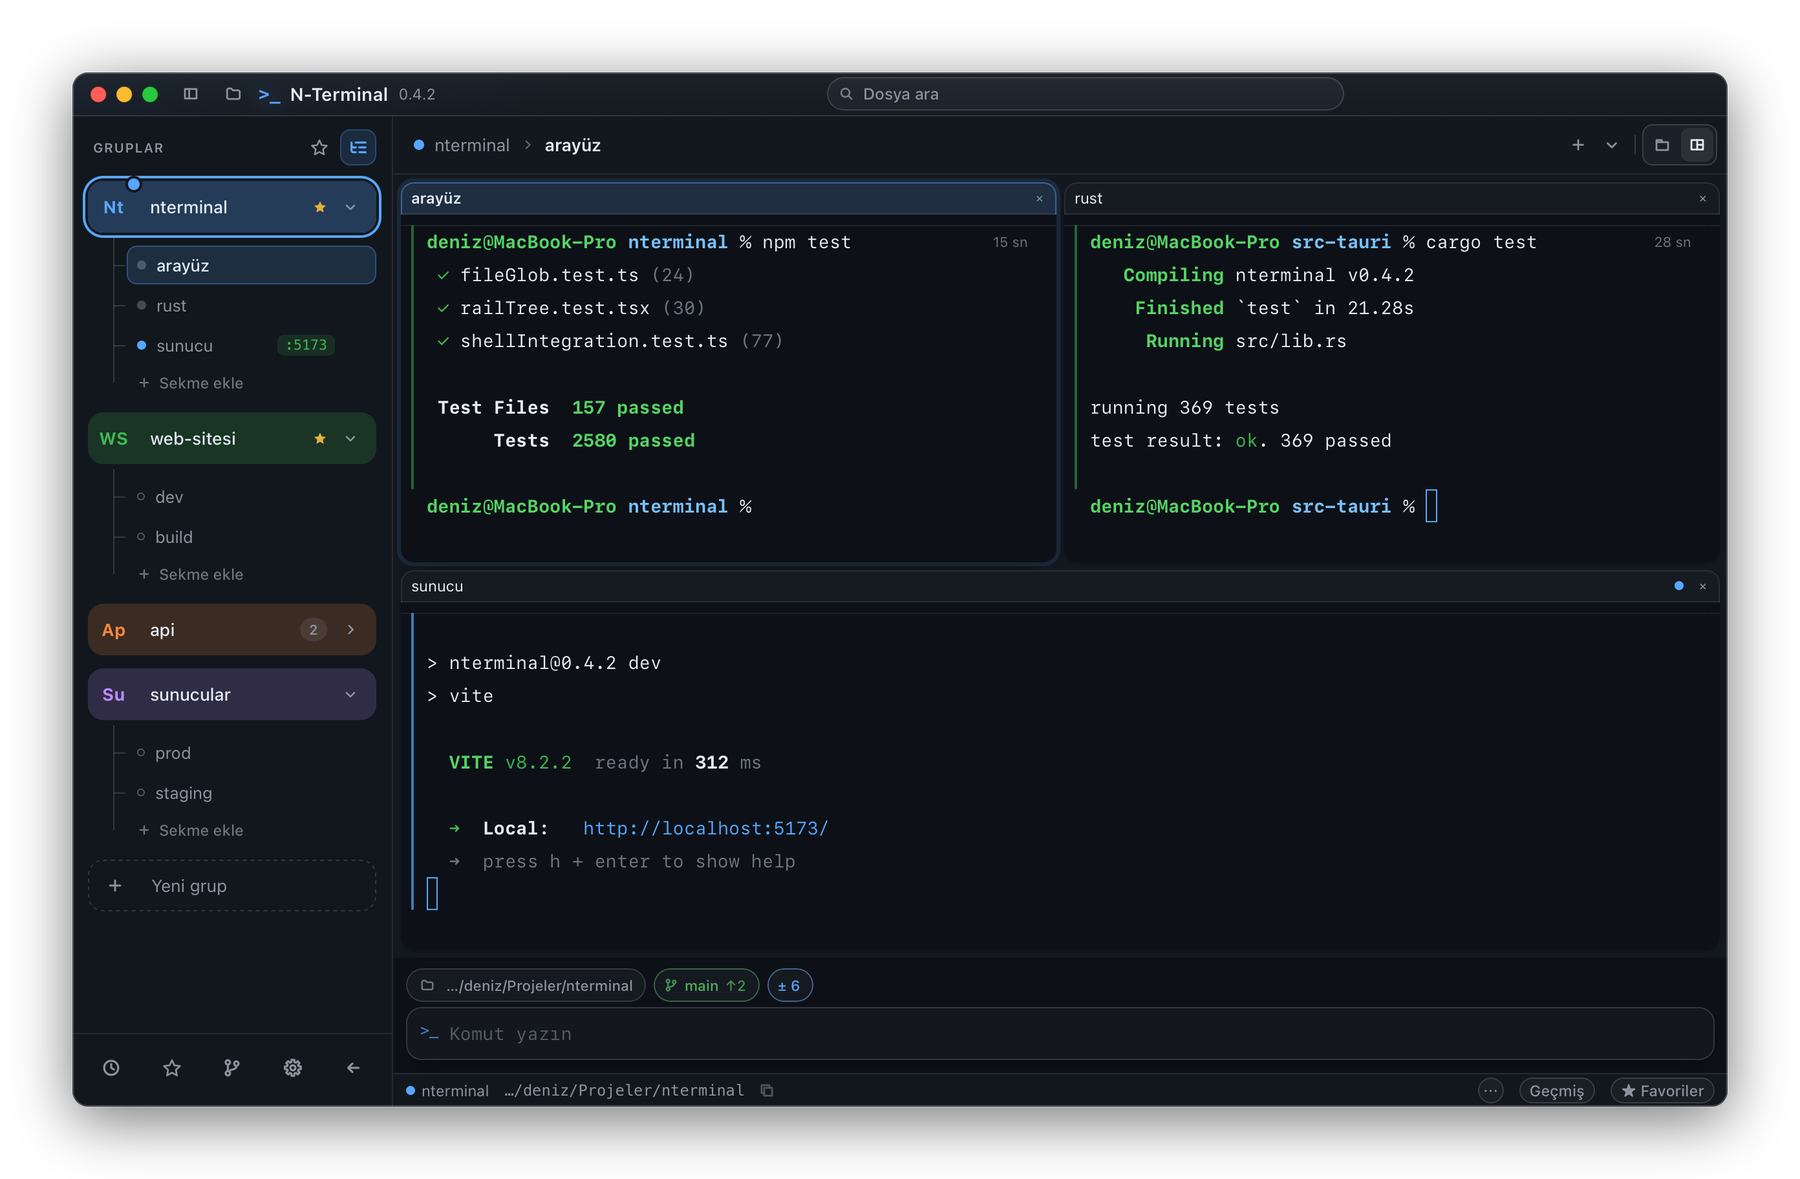
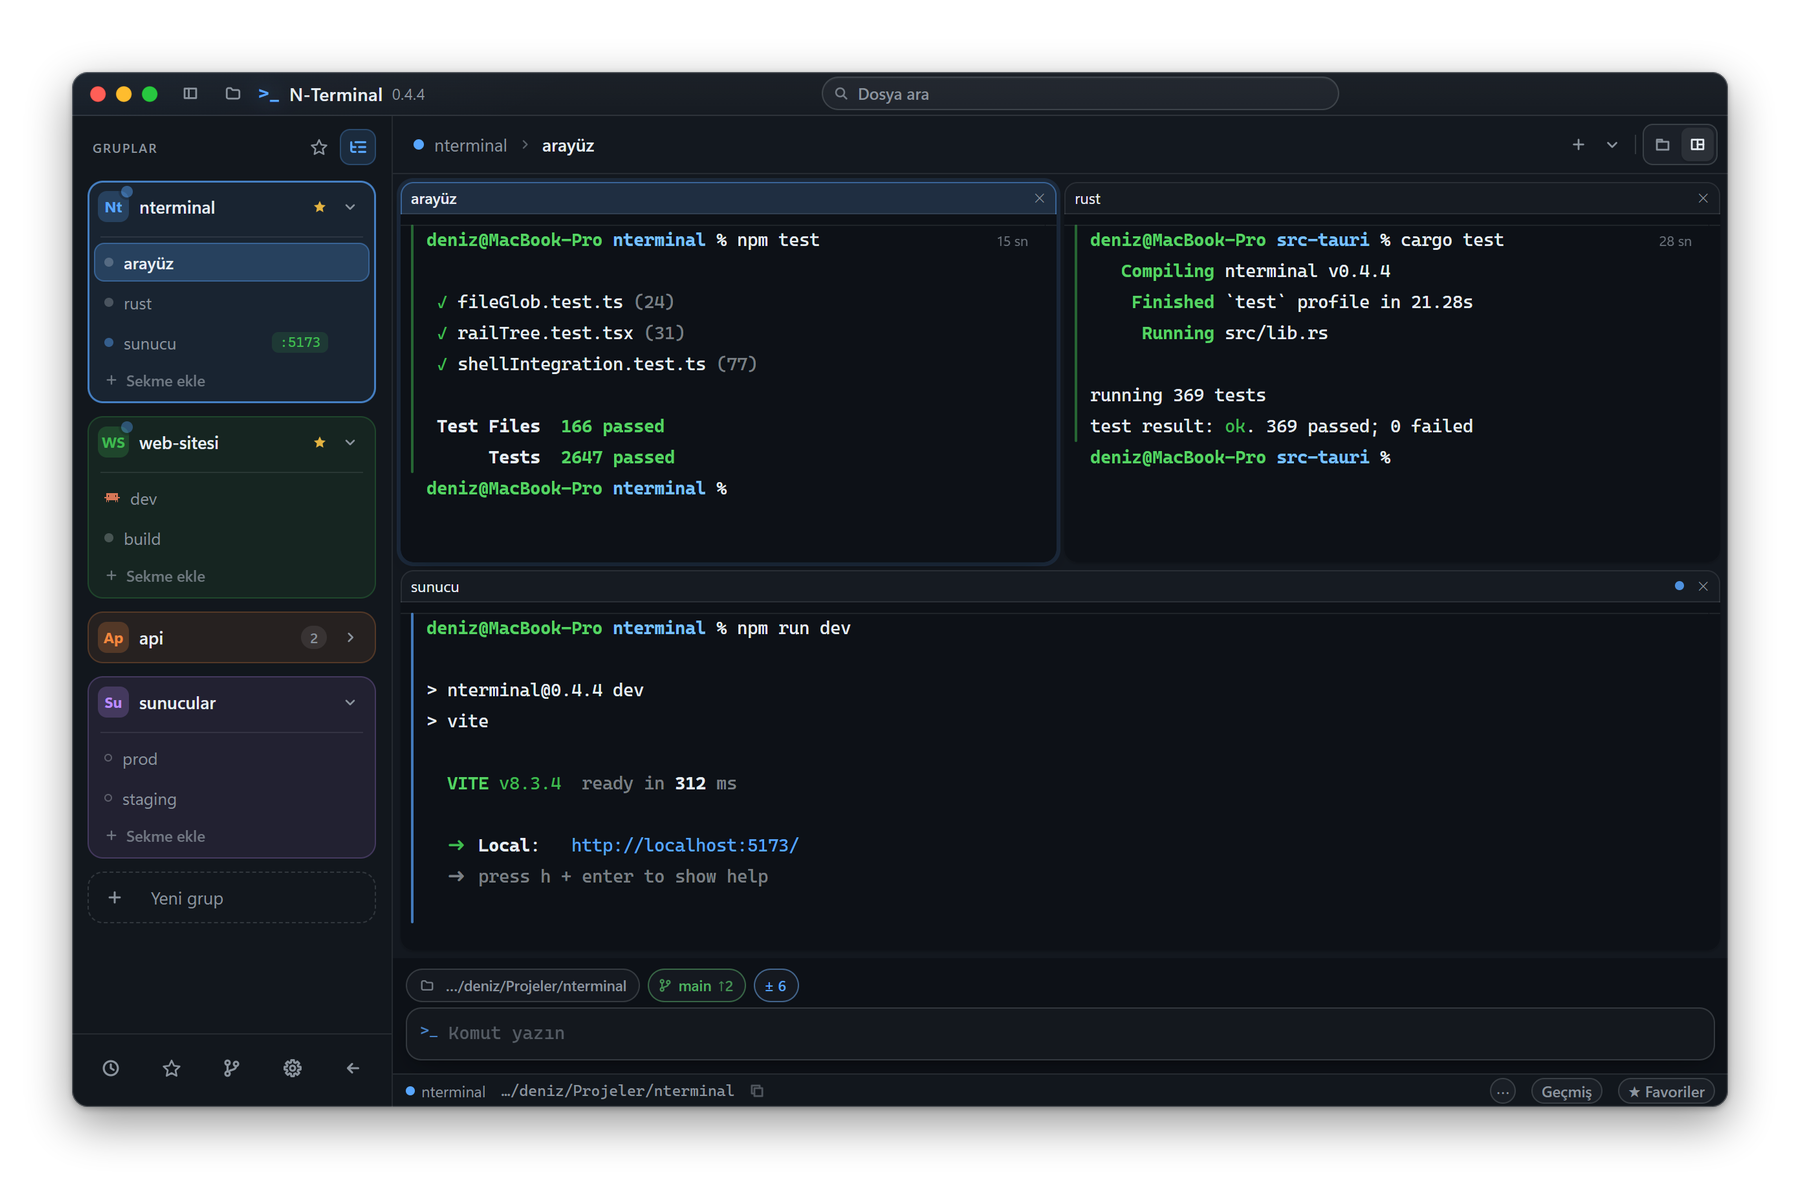
README: Kokpit'in kart ağacı, görseller 0.4.4 arayüzünden
README 0.4.2'de yazılmıştı; 0.4.3'te Kokpit'in ağaç görünümünde her grup
kendi renginde bir karta dönüştü, sekmeler kartın içine girdi. Ana görsel,
bölme, ayarlar ve dosya arama görselleri eski ağacı gösteriyordu.

- Görseller (kokpit, bolme, ayarlar, dosya-arama, premium-acik) yeniden
  çizildi: gerçek arayüz kodu, sahte arka uç, genel adlar; çerçeve eski
  ölçülerde (1800x1179). premium-acik yalnızca sürüm numarası için.
  paneller.png değişmedi.
- "Her proje bir grup": ağaç görünümünde grup kartı ve meşgul noktası.
- Kokpit'in varsayılan tasarım olduğu; fark penceresinin sözdizimi renkleri,
  görüntüleyicinin VS Code renkleri ve ağaçta işaretli değişen dosyalar
  (docs/ozellikler.md ile aynı ifadeler).

diff --git a/README.md b/README.md
@@ -18,7 +18,7 @@ macOS ve Windows için · Türkçe ve İngilizce arayüz · Ücretsiz ve açık 
 [Kısayollar](#klavye-kısayolları) &nbsp;·&nbsp;
 [Belgeler](#belgeler)
 
-<img src="docs/gorseller/kokpit.png" width="900" alt="N-Terminal: solda gruplar ve sekmeleri, ortada komut blokları ve süreleriyle terminal, altta komut kutusu">
+<img src="docs/gorseller/kokpit.png" width="900" alt="N-Terminal, Kokpit tasarımı: solda her grup kendi renginde bir kart ve sekmeleri kartın içinde, ortada komut blokları ve süreleriyle terminal, altta komut kutusu">
 
 </div>
 
@@ -26,10 +26,12 @@ macOS ve Windows için · Türkçe ve İngilizce arayüz · Ücretsiz ve açık 
 
 ### Her proje bir grup
 
-Her grubun kendi rengi, sekmeleri ve başlangıç klasörü var. Kokpit tasarımında
-soldaki grup bölmesini genişletince sekmeler grubun altında ağaç gibi listelenir.
-Sekmeleri sürükleyerek gruplar arasında taşıyabilir, yıldızla işaretlediğiniz
-favori grupları tek tıkla süzebilirsiniz. Uygulamayı kapatıp açtığınızda gruplar, sekmeler, çalışma
+Her grubun kendi rengi, sekmeleri ve başlangıç klasörü var. Varsayılan Kokpit
+tasarımında soldaki grup bölmesini genişletip ağaç görünümüne geçince her grup
+kendi renginde bir karta dönüşür, sekmeleri kartın içinde listelenir; komut
+çalışan grubun rozetinde bir nokta yanar. Sekmeleri sürükleyerek gruplar
+arasında taşıyabilir, yıldızla işaretlediğiniz favori grupları tek tıkla
+süzebilirsiniz. Uygulamayı kapatıp açtığınızda gruplar, sekmeler, çalışma
 klasörleri ve ekran çıktısı kaldığı yerden gelir.
 
 ### Her komut kendi bloğunda
@@ -49,9 +51,9 @@ Enter'a basınca komutun tamamı çalışır; ne çalışacağı kutunun içinde
 yazar.
 
 **Değişiklikler.** Dosyaları seçip commit'leyin, push'layın, stash'e alın. Farkı
-panelin içinde ya da ayrı bir pencerede yan yana görün, dal seçiciyle dal
-değiştirin. Komut kutusunun üstünde dal adı, gönderilmemiş commit sayısı ve
-değişen dosya sayısı her zaman görünür.
+panelin içinde ya da ayrı bir pencerede, iki tarafı da sözdizimi renkli olarak
+yan yana görün; dal seçiciyle dal değiştirin. Komut kutusunun üstünde dal adı,
+gönderilmemiş commit sayısı ve değişen dosya sayısı her zaman görünür.
 
 <p align="center">
   <img src="docs/gorseller/paneller.png" width="820" alt="Solda Favoriler paneli: klasörlere ayrılmış favori komutlar ve kısaltmaları. Sağda Değişiklikler paneli: commit iletisi, Stash, Commit ve Push düğmeleri, değişen dosyalar ve açılmış bir fark">
@@ -62,7 +64,9 @@ değişen dosya sayısı her zaman görünür.
 Bulunduğunuz klasörde dosyayı adıyla ya da `*.tsx`, `src/**/*.test.ts`,
 `*.{ts,tsx}` gibi kalıplarla bulun; her dosya türü kendi etiketiyle görünür. Aynı
 pencerenin **Dosya içeriği** sekmesi dosyaların içinde arar. Dosya paneli ise
-klasör ağacını, dosya görüntüleyiciyi ve küçük düzenlemeleri tek yerde toplar.
+klasör ağacını, kodu VS Code'un renkleriyle gösteren görüntüleyiciyi ve küçük
+düzenlemeleri tek yerde toplar; değişen dosyalar ve klasörler ağaçta Git
+durumunun rengiyle işaretlidir.
 
 <p align="center">
   <img src="docs/gorseller/dosya-arama.png" width="900" alt="Ctrl+P penceresi: *term* kalıbıyla bulunan farklı türde dosyalar">
@@ -79,10 +83,10 @@ tek tuşla geçin (macOS'ta ⌘⇧E, Windows'ta Ctrl+Shift+E).
 
 ### Size göre
 
-Üç tasarım (Kokpit, Premium, Klasik), açık ve koyu renk temaları; yazı tipi, satır
-aralığı, istem renkleri, kabuk profilleri ve kısayollar. Değişiklikler anında
-uygulanır. Bütün yapılandırmanızı tek dosyayla başka bir bilgisayara
-taşıyabilirsiniz (*Ayarlar › Yedekleme*).
+Üç tasarım (varsayılan Kokpit, Premium, Klasik), açık ve koyu renk temaları;
+yazı tipi, satır aralığı, istem renkleri, kabuk profilleri ve kısayollar.
+Değişiklikler anında uygulanır. Bütün yapılandırmanızı tek dosyayla başka bir
+bilgisayara taşıyabilirsiniz (*Ayarlar › Yedekleme*).
 
 <p align="center">
   <img src="docs/gorseller/ayarlar.png" width="49%" alt="Ayarlar: tasarım ve renk teması seçimi">
